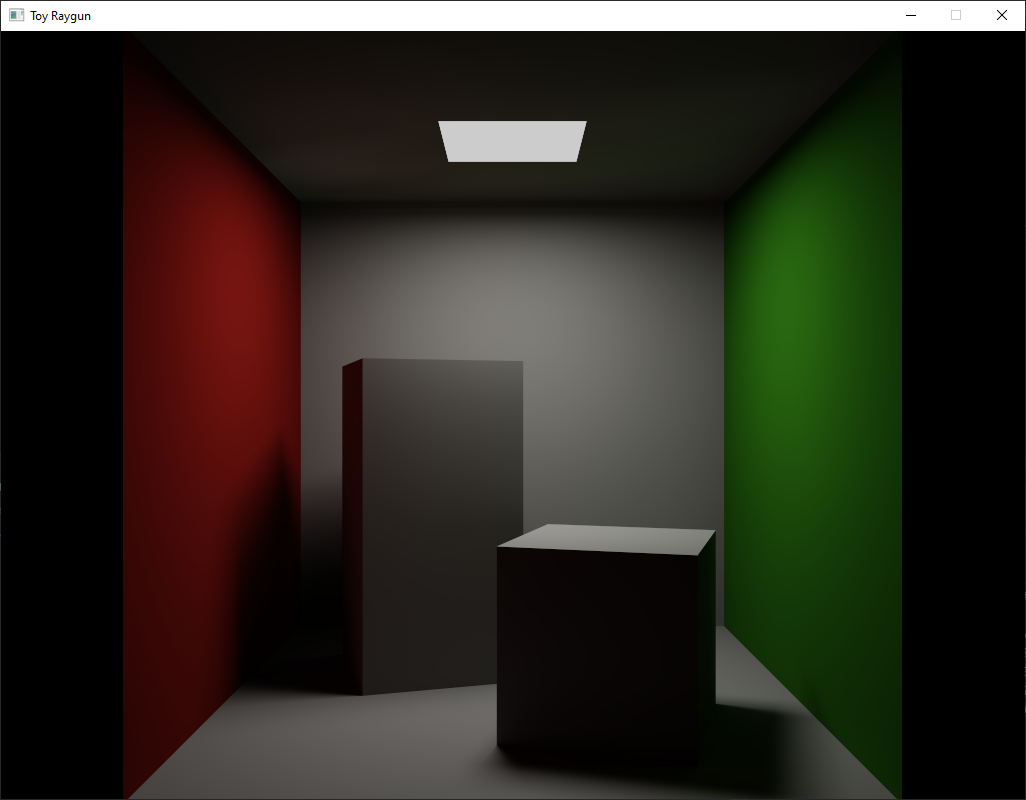
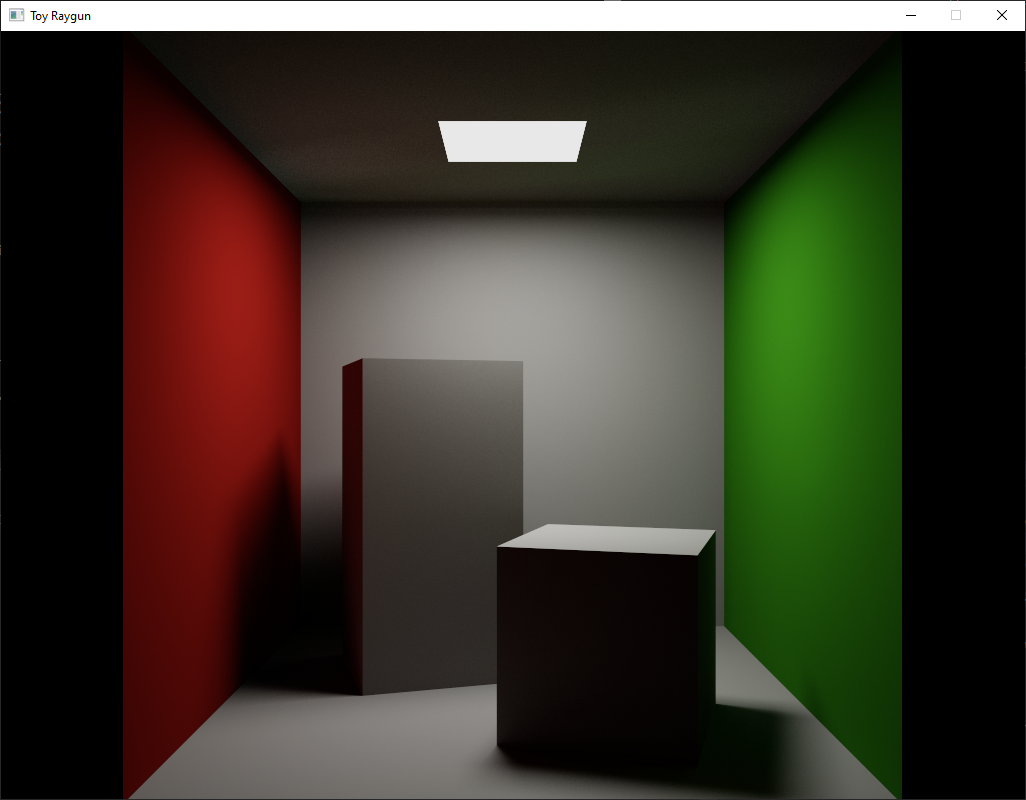
Cleanup.

diff --git a/src/engine/D3D12/D3D12Renderer.cpp b/src/engine/D3D12/D3D12Renderer.cpp
@@ -76,7 +76,7 @@ void D3D12Renderer::updateUniforms()
     m_sceneCB[bufferIndex].light.forward.set(bx::Vec3(0.0f, -1.0f, 0.0f));
     m_sceneCB[bufferIndex].light.right.set(bx::Vec3(0.25f, 0.0f, 0.0f));
     m_sceneCB[bufferIndex].light.up.set(bx::Vec3(0.0f, 0.0f, 0.25f));
-    m_sceneCB[bufferIndex].light.color.set(bx::Vec3(4.0f, 4.0f, 4.0f));
+    m_sceneCB[bufferIndex].light.color.set(bx::Vec3(1.0f, 1.0f, 1.0f));
 }
 
 // Initialize scene rendering parameters.
